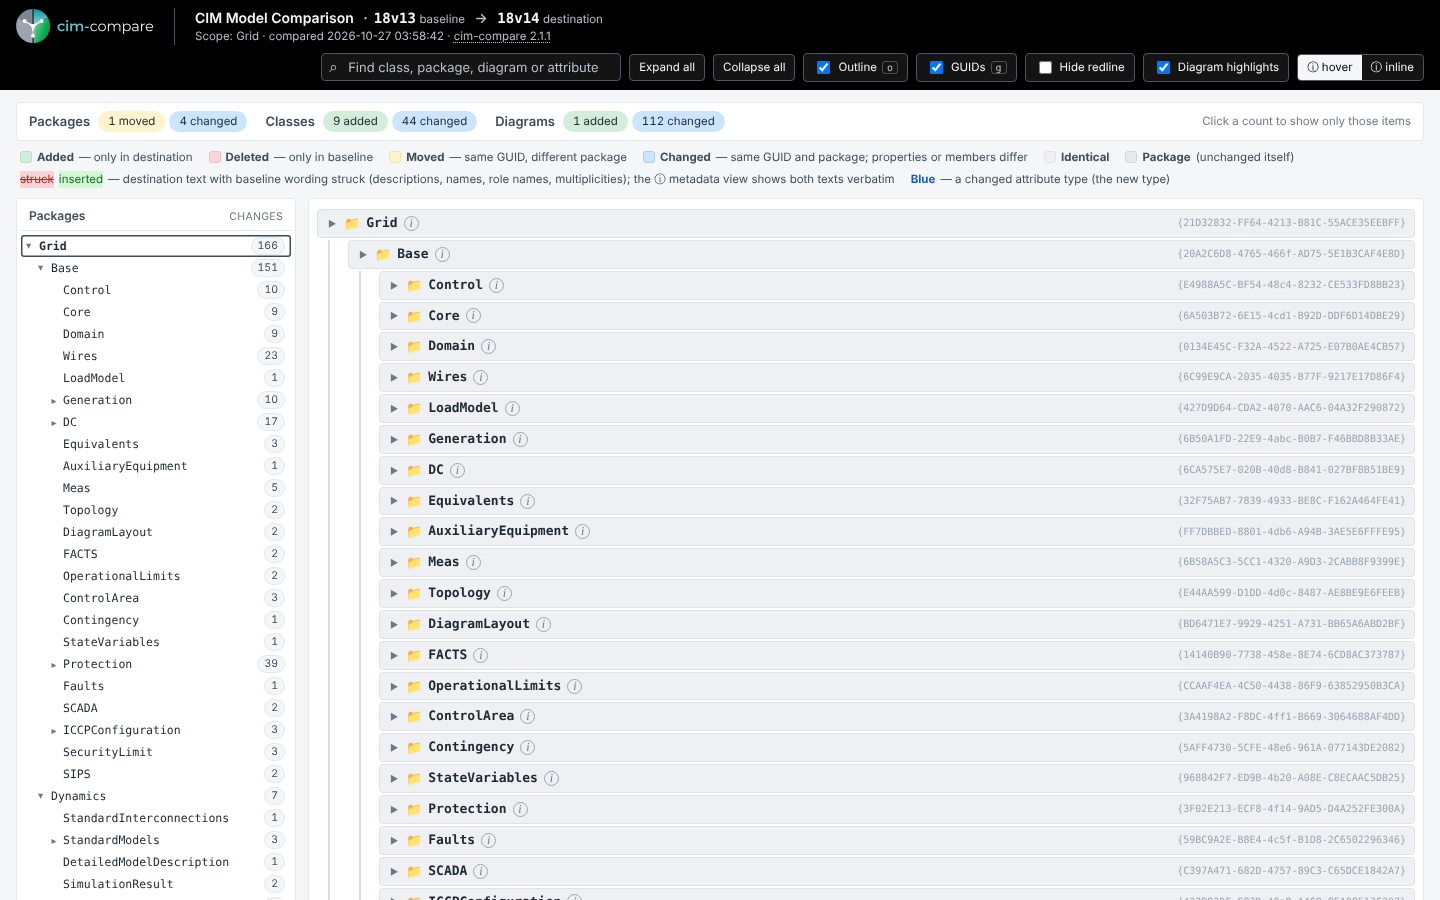
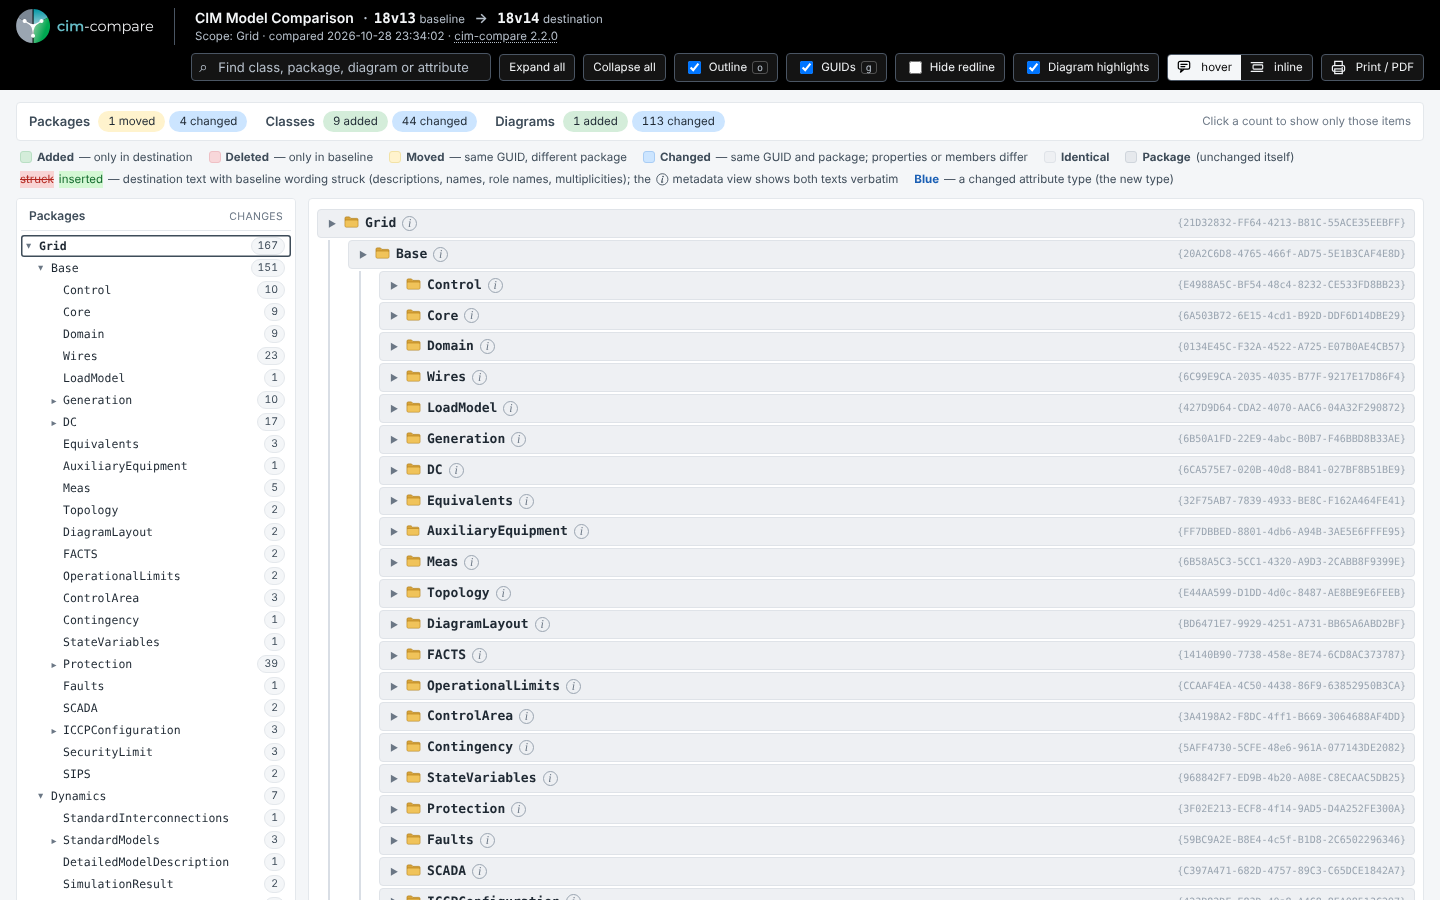
Docs 2.2.0: Reading a Comparison Report, as reviewed
Present tense throughout: Print / PDF in the header, the empty-values line
under the legend, a moved package's former parent, several stereotypes,
--show-empty-values in Metadata, the metadata-changed note on attributes,
when a diagram counts as changed, zooming the enlarged view, labels changed
connectors, GUID search, the + - 0 keys, and a new Printing and PDF
sub-section. New screenshots: overview, GUID search, zoom, Print / PDF.

Claude-Session: https://claude.ai/code/session_011tgNrNWWxYpt25Uj32Kb6G

Changed region(s): [[0.25, 0.2178, 0.4062, 1.0], [0.1562, 0.0311, 1.0, 0.0933], [0.4375, 0.1867, 0.8125, 0.2178]]

diff --git a/README.md b/README.md
@@ -19,6 +19,7 @@ See an [example report](https://cim-compare.ucaiug.io/example-comparison-report/
   - [Diagrams](#diagrams)
   - [Finding Things](#finding-things)
   - [Keyboard Shortcuts](#keyboard-shortcuts)
+  - [Printing and PDF](#printing-and-pdf)
   - [Supported Browsers](#supported-browsers)
 - [Setup & Configuration](#setup--configuration)
   - [Java Technical Requirements](#java-technical-requirements)
@@ -106,9 +107,9 @@ The output generated by **cim-compare** is a single, self-contained HTML file co
 
 ### Report Layout
 
-- **Header** (always visible at the top): the cim-compare logo (a link to the [cim-compare website](https://cim-compare.ucaiug.io)), the baseline and destination versions, the scope of the comparison (the package given with `--package`, or the model's root nodes and "full model"), when the comparison was made, the cim-compare version (a link to its release), and the controls described below.
+- **Header** (always visible at the top): the cim-compare logo (a link to the [cim-compare website](https://cim-compare.ucaiug.io)), the baseline and destination versions, the scope of the comparison (the package given with `--package`, or the model's root nodes and "full model"), when the comparison was made, the cim-compare version (a link to its release), and the controls described below. At the right, **Print / PDF** opens the browser's print dialog (see [Printing and PDF](#printing-and-pdf)).
 - **Summary**: counts of added, deleted, moved and changed packages, classes and diagrams. Click a count to show only those items (for example **Classes › 9 added** shows just the 9 added classes, with their packages opened and every other package hidden); click more than one to combine them, and **clear filters** to show everything again. The package outline on the left always lists the whole model.
-- **Legend**: what each color means (see [Status Colors](#status-colors)).
+- **Legend**: what each color means (see [Status Colors](#status-colors)). When differences between a value and an empty value were left out (see `--show-empty-values`), a line under the legend says how many; point at it for the fields concerned.
 - **Package outline** (left): every package with changes, and the number of changed classes and diagrams in it, including its sub-packages. Click a package to jump to it; the package you are reading is highlighted as you scroll. Turn it off with the **Outline** checkbox or the `o` key. It is hidden in narrow windows and when printing.
 - **Package tree** (right): packages, and within each package its classes and then its diagrams, grouped by status in the order Deleted, Added, Moved, Changed. Click a row to open or close it; **Expand all** and **Collapse all** open or close everything, and Alt-click on an arrow opens a package and everything in it.
 
@@ -120,19 +121,19 @@ The output generated by **cim-compare** is a single, self-contained HTML file co
 |---|---|---|
 | Green | **Added** | Only in the destination model. |
 | Red | **Deleted** | Only in the baseline model. |
-| Yellow | **Moved** | Same element (same GUID), now in a different package. The row says which package it came from. |
+| Yellow | **Moved** | Same element (same GUID), in a different package. The row says where it came from: for a class or diagram, its baseline package; for a package, its baseline parent package (for example "MOVED from Part303"). |
 | Blue | **Changed** | Same element, same package; some of its properties, attributes or links differ. |
 | Grey | **Identical** | Unchanged. Shown only with `--full`. |
 
-The status is also written on each row (ADDED, DELETED, MOVED, CHANGED), so the report can be read without relying on color. A renamed element shows its new name, with "renamed from *old name*" in grey beside it (in the tree) or under it (in tables).
+The status is also written on each row (ADDED, DELETED, MOVED, CHANGED), so the report can be read without relying on color. A renamed element shows its new name, with "renamed from *old name*" in grey beside it (in the tree) or under it (in tables). An element with several stereotypes shows them all, as «ShadowExtension, util»; a change only in their order or case is tagged **order only** or **case only**.
 
 ### Class Details
 
 Open a class to see what changed in it, in this order:
 
 1. **Description** – the class notes. When they changed, the baseline text appears beside the destination text, and the destination is *redlined*: wording removed since the baseline is struck through in red and new wording is highlighted in green. When most of a text was rewritten, the whole old text is struck through and the whole new text inserted, which is easier to read than a word-by-word comparison.
-2. **Metadata** – the class properties that changed (stereotype, abstract, alias and so on), baseline beside destination. A property whose value was cleared or filled in is shown as changed, with *(empty)* on the side that has no value.
-3. **Attributes** – one row per changed attribute: its type and multiplicity in the baseline and in the destination, and its notes, redlined. In the Destination column a changed type is shown as the new type in blue, and a changed multiplicity is redlined. A renamed attribute shows its new name with "renamed from *old name*" under it. A new attribute shows "does not exist" in the baseline column; a deleted one shows "removed from model" in the destination column.
+2. **Metadata** – the class properties that changed (stereotype, abstract, alias and so on), baseline beside destination. A property whose value was cleared or filled in is shown as changed, with *(empty)* on the side that has no value. In the housekeeping fields EA fills in automatically (Complexity, Phase, Version, GenType, and Containment, IsLiteral, Derived, Const and Static at their defaults), a difference between a value and an empty value is not shown unless the report was generated with `--show-empty-values`.
+3. **Attributes** – one row per changed attribute: its type and multiplicity in the baseline and in the destination, and its notes, redlined. In the Destination column a changed type is shown as the new type in blue, and a changed multiplicity is redlined. A renamed attribute shows its new name with "renamed from *old name*" under it. A new attribute shows "does not exist" in the baseline column; a deleted one shows "removed from model" in the destination column. When an attribute changed only in properties its row does not show, such as an enumeration literal given an initial value, its ⓘ is blue with a dot and the row reads *metadata changed - hover ⓘ* (*see below* in inline mode).
 4. **Links** – generalizations, associations and aggregations, each as a card showing both ends in the baseline and in the destination, followed by the changed properties of the source end and the target end. Each end of an association reads *class* <i>role</i> *role name* [*multiplicity*], for example `ACDCTerminal` <i>role</i> `ACDCTerminal [0..1]`: the class (a link to it), then its role name and multiplicity. On the destination line changed role names and multiplicities are redlined. A multiplicity written differently with the same meaning, such as `1..1` and `1`, is tagged **notation only**.
 
 ![](media/Report_Class_Description_Attributes.png)
@@ -155,7 +156,11 @@ Added and deleted classes are shown compactly (their attributes and links as a s
 
 ### Diagrams
 
-With `--include-diagrams`, each changed diagram shows its changed properties and, when something on the diagram changed, the baseline and destination images side by side. Click an image to enlarge it; press `Esc` to close.
+With `--include-diagrams`, each changed diagram shows its changed properties and, when something on the diagram changed, the baseline and destination images side by side. A diagram counts as changed when its picture differs: something on it was added, removed, moved, resized or restyled, or a class or association drawn on it changed in a way the diagram shows. Click an image to enlarge it.
+
+In the enlarged view, the mouse wheel or a trackpad pinch zooms on the point under the cursor, dragging moves the diagram, and a two-finger pinch zooms on a touch screen. The toolbar has zoom out, zoom in, **Fit** and **100%**; the keys `+`, `−` and `0` do the same, and `Esc` closes the view. The outlines follow the diagram at every zoom. SVG images zoom to 800% and stay sharp; JPG, PNG, GIF and BMP images zoom to 200%.
+
+![](media/Report_Lightbox_Zoom.png)
 
 Changes are outlined on the images, and a legend above them lists the kinds present:
 
@@ -169,15 +174,15 @@ A shift of the whole diagram, which Enterprise Architect often makes when export
 
 ![](media/Report_Diagram_Comparison.png)
 
-Changed connectors (associations, generalizations and other lines) are listed in a **Connectors** table under the images: added, removed, rerouted, labels moved (role names or multiplicities dragged) or restyled, each named by the two elements it joins. Point at a row to outline those two elements with a dashed box on the image it applies to (the baseline for a removed connector); click the row to keep the outline. Connectors are listed rather than drawn because Enterprise Architect does not record the route it draws for them. "(not in this model)" stands for an element the diagram shows but the exported model does not define, such as a class from another model.
+Changed connectors (associations, generalizations and other lines) are listed in a **Connectors** table under the images: added, removed, rerouted, labels moved (role names or multiplicities dragged), labels changed (role names, multiplicities or stereotype changed in the model, with what changed, such as "multiplicity 0..* → 1..*") or restyled, each named by the two elements it joins. Point at a row to outline those two elements with a dashed box on the image it applies to (the baseline for a removed connector); click the row to keep the outline. Connectors are listed rather than drawn because Enterprise Architect does not record the route it draws for them. "(not in this model)" stands for an element the diagram shows but the exported model does not define, such as a class from another model.
 
 ![](media/Report_Diagram_Connectors.png)
 
-Every diagram that changed is listed. A diagram whose only changes are its name, notes or modified date, with nothing changed on it, shows its metadata alone, and its images are not kept: **cim-compare** deletes the images of diagrams the report does not show, as it does for identical diagrams, so they are not included by `--zip`.
+Every diagram that changed is listed. A diagram whose only changes are its name, notes or modified date, with nothing changed on it, shows its metadata alone, without images. With EA project files as input (Option #1), **cim-compare** has EA draw images only for the diagrams the report shows; with XMI files as input (Option #2), it deletes the images of the other diagrams, so they are not included by `--zip` either way. A diagram EA could not draw says "No image" in place of its image.
 
 ### Finding Things
 
-- **Search** (or press `/`): type part of the name of a package, class, diagram or attribute. Matches appear as you type, with their package; choose one with the arrow keys and `Enter`, or click it. The report opens at that element and highlights it.
+- **Search** (or press `/`): type part of the name of a package, class, diagram or attribute, or a GUID. Matches appear as you type, with their package; choose one with the arrow keys and `Enter`, or click it. The report opens at that element and highlights it. A GUID can be typed in any of the forms EA, XMI files and scripts use: `{56C8D23C-C73A-4bea-870E-5C920A3F1066}`, without braces, in lower case, or as `EAID_56C8D23C_C73A_4bea_870E_5C920A3F1066`; eight or more hex digits match by prefix. A GUID match shows the element's GUID under its name, and associations and generalizations can be found this way too.
 
   ![](media/Report_Search.png)
 - **Links to other classes**: attribute types and link ends that are classes in the model are links. Following one opens the class; the browser's **Back** button returns you to where you were.
@@ -194,11 +199,18 @@ Every diagram that changed is listed. A diagram whose only changes are its name,
 | `Home` | Back to the top (the browser's Back button returns you) |
 | `o` | Show / hide the package outline |
 | `g` | Show / hide GUIDs |
+| `+` `−` `0` | In an enlarged diagram: zoom in, zoom out, fit to the window |
 | `Esc` | Clear the search, close a pop-up or an enlarged diagram |
+
+### Printing and PDF
+
+**Print / PDF** in the header opens the browser's print dialog (or press Ctrl+P, ⌘P on a Mac); point at it for the settings that give a good PDF. To save a PDF, choose *Save as PDF* (or *Microsoft Print to PDF*) as the printer, with *Landscape*, *Headers and footers* off and *Background graphics* on. The report prints with its colors and its header, the whole package tree expanded, and each diagram's panels kept with their images; the search box, buttons and package outline are left out. Sections print as they are on the page, so open any **Show full metadata** you want included first, and in a large report wait for the diagram images to load.
+
+![](media/Report_Print_PDF.png)
 
 ### Supported Browsers
 
-Current versions of Chrome, Edge, Firefox and Safari. Internet Explorer is not supported. Printing expands the whole report and leaves out the header and the outline.
+Current versions of Chrome, Edge, Firefox and Safari. Internet Explorer is not supported.
 
 
 ## Setup & Configuration
